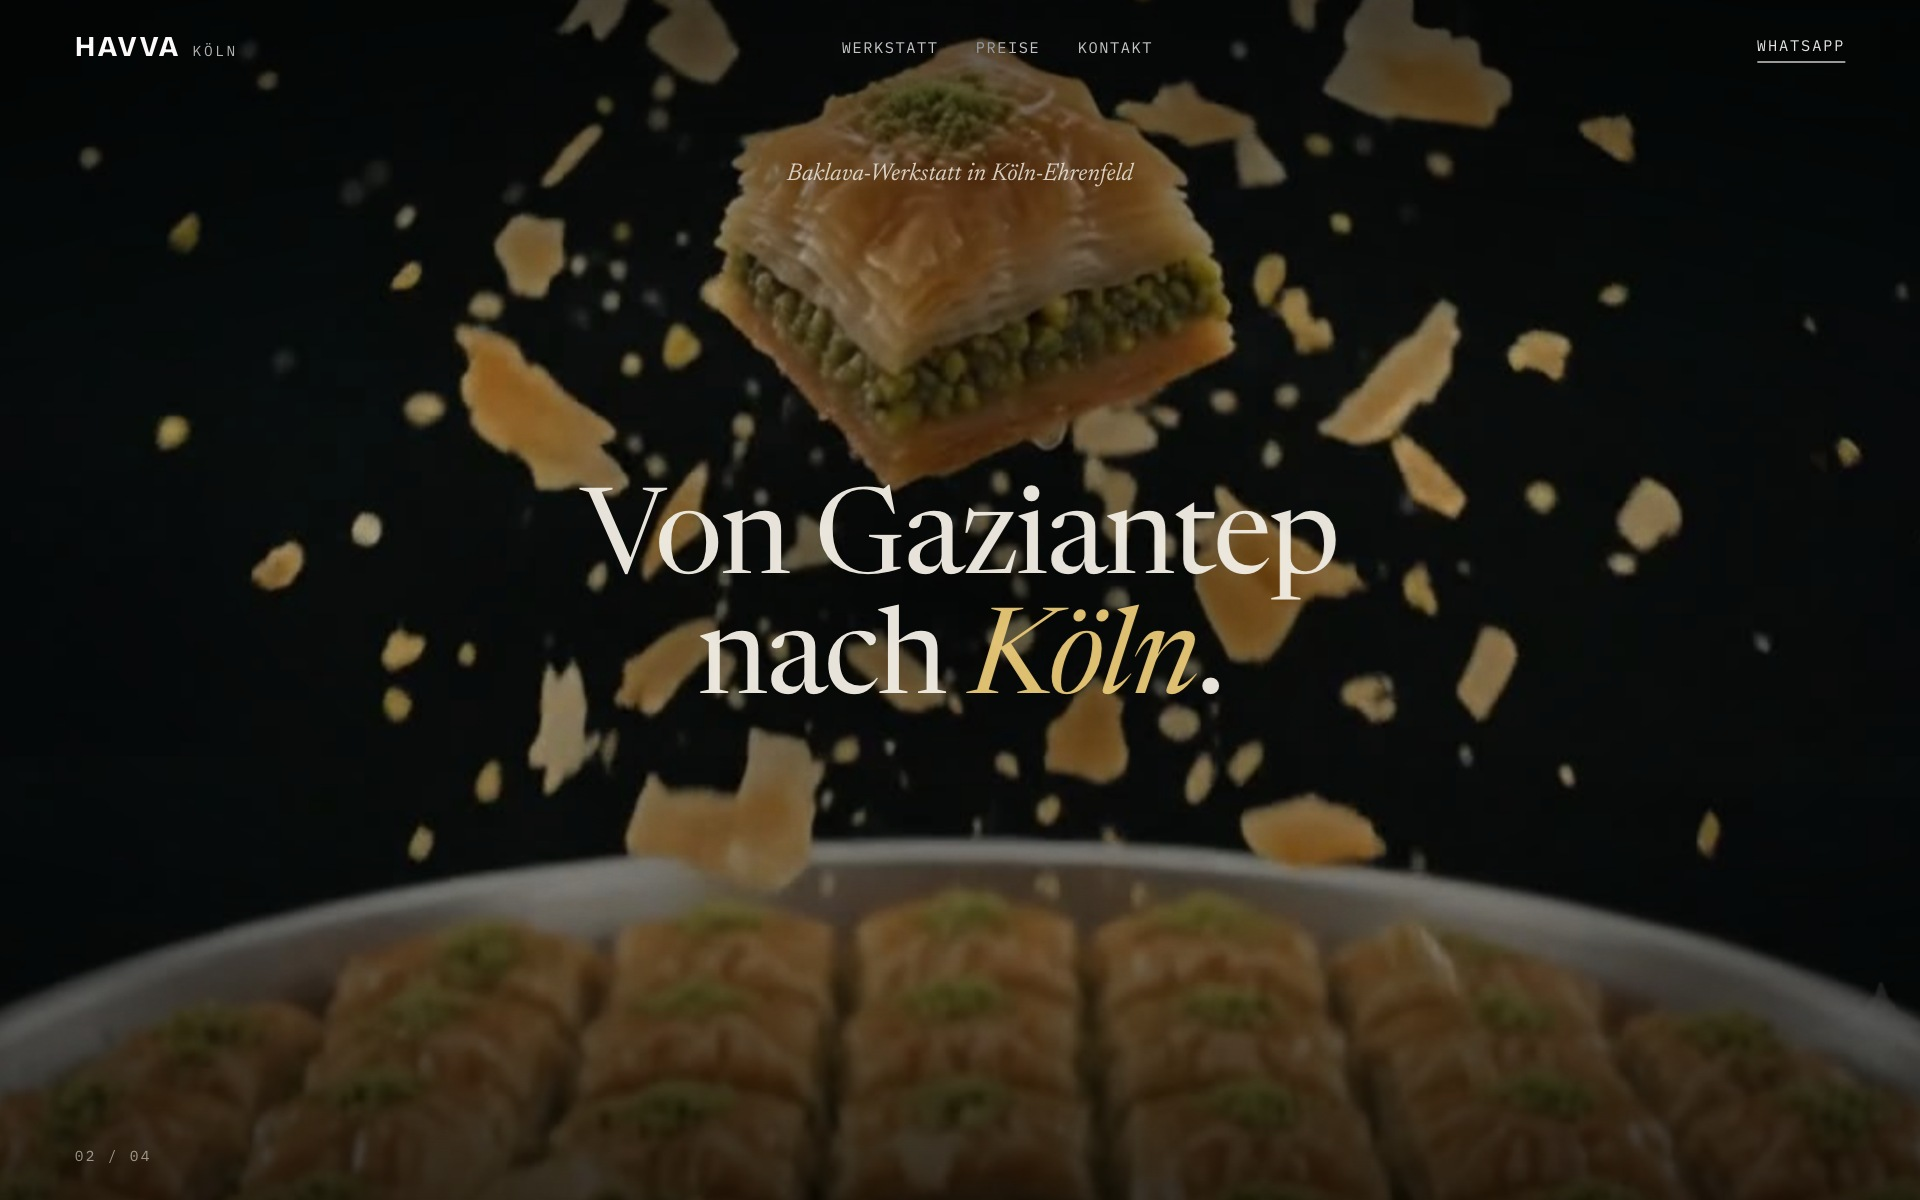
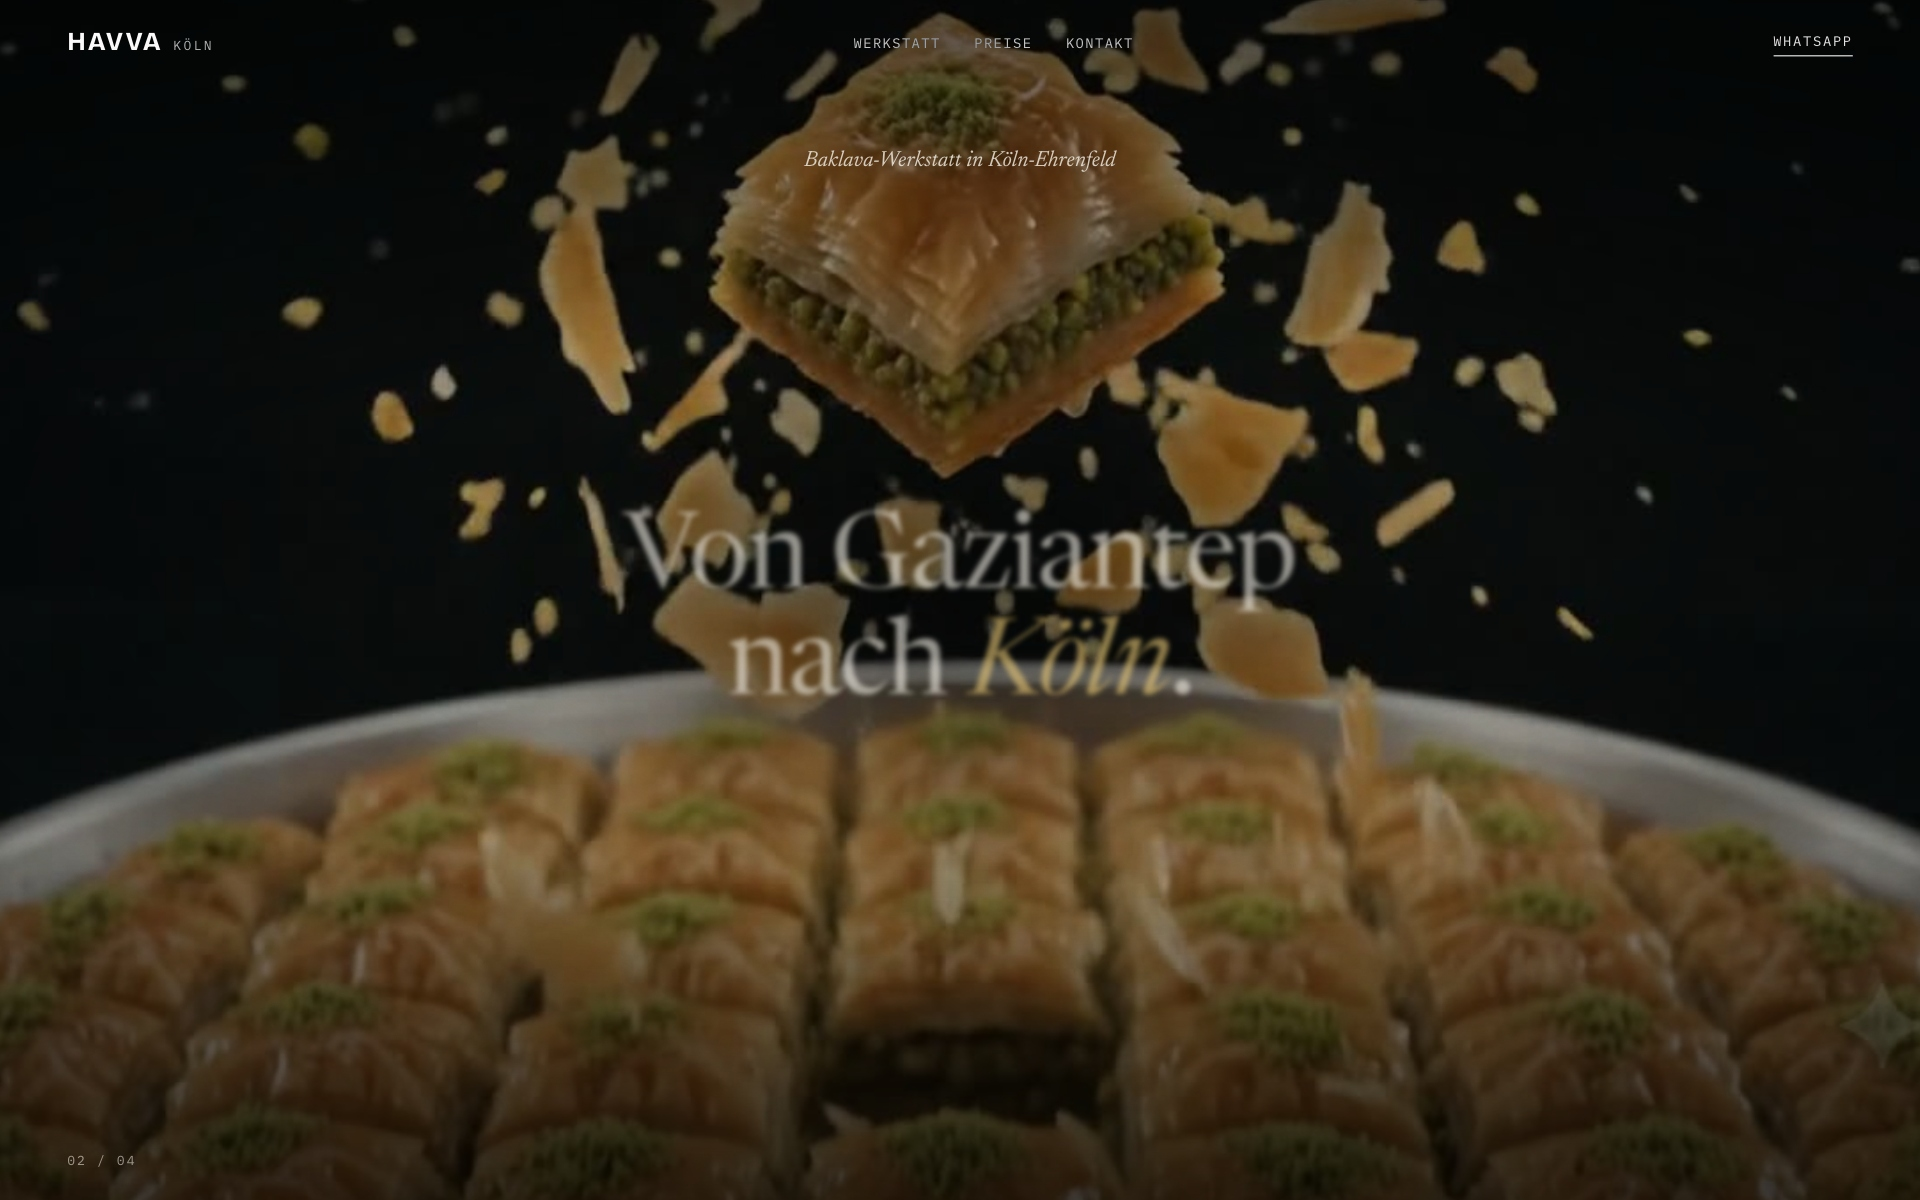
Refresh HAVVA Baklava mockups with stronger scroll frames.
Lead the card and gallery with the layer-by-layer handarbeit shot instead of the static tray hero.

diff --git a/data/project-galleries.ts b/data/project-galleries.ts
@@ -371,10 +371,10 @@ const havva = pack([
     src: "/projects/havva-baklava/featured/01-hero.jpg",
     span: HERO,
     alt: {
-      tr: "HAVVA — baklava tepsi hero",
-      en: "HAVVA — baklava tray hero",
-      es: "HAVVA — hero bandeja de baklava",
-      de: "HAVVA — Baklava-Tablett Hero",
+      tr: "HAVVA — katman katman, elde baklava",
+      en: "HAVVA — layer by layer, by hand",
+      es: "HAVVA — capa a capa, a mano",
+      de: "HAVVA — Schicht für Schicht, von Hand",
     },
   },
   {
@@ -398,23 +398,23 @@ const havva = pack([
     },
   },
   {
-    src: "/projects/havva-baklava/featured/04-werkstatt.jpg",
+    src: "/projects/havva-baklava/featured/04-tepsi.jpg",
+    span: MID,
+    alt: {
+      tr: "HAVVA — baklava tepsi hero",
+      en: "HAVVA — baklava tray hero",
+      es: "HAVVA — hero bandeja de baklava",
+      de: "HAVVA — Baklava-Tablett Hero",
+    },
+  },
+  {
+    src: "/projects/havva-baklava/featured/05-werkstatt.jpg",
     span: MID,
     alt: {
       tr: "HAVVA — Ehrenfeld atölye hikâyesi",
       en: "HAVVA — Ehrenfeld workshop story",
       es: "HAVVA — historia del taller en Ehrenfeld",
       de: "HAVVA — Werkstattgeschichte Ehrenfeld",
-    },
-  },
-  {
-    src: "/projects/havva-baklava/featured/05-preise.jpg",
-    span: MID,
-    alt: {
-      tr: "HAVVA — günlük fiyat listesi",
-      en: "HAVVA — daily price list",
-      es: "HAVVA — carta de precios diaria",
-      de: "HAVVA — Tagespreisliste",
     },
   },
   {
